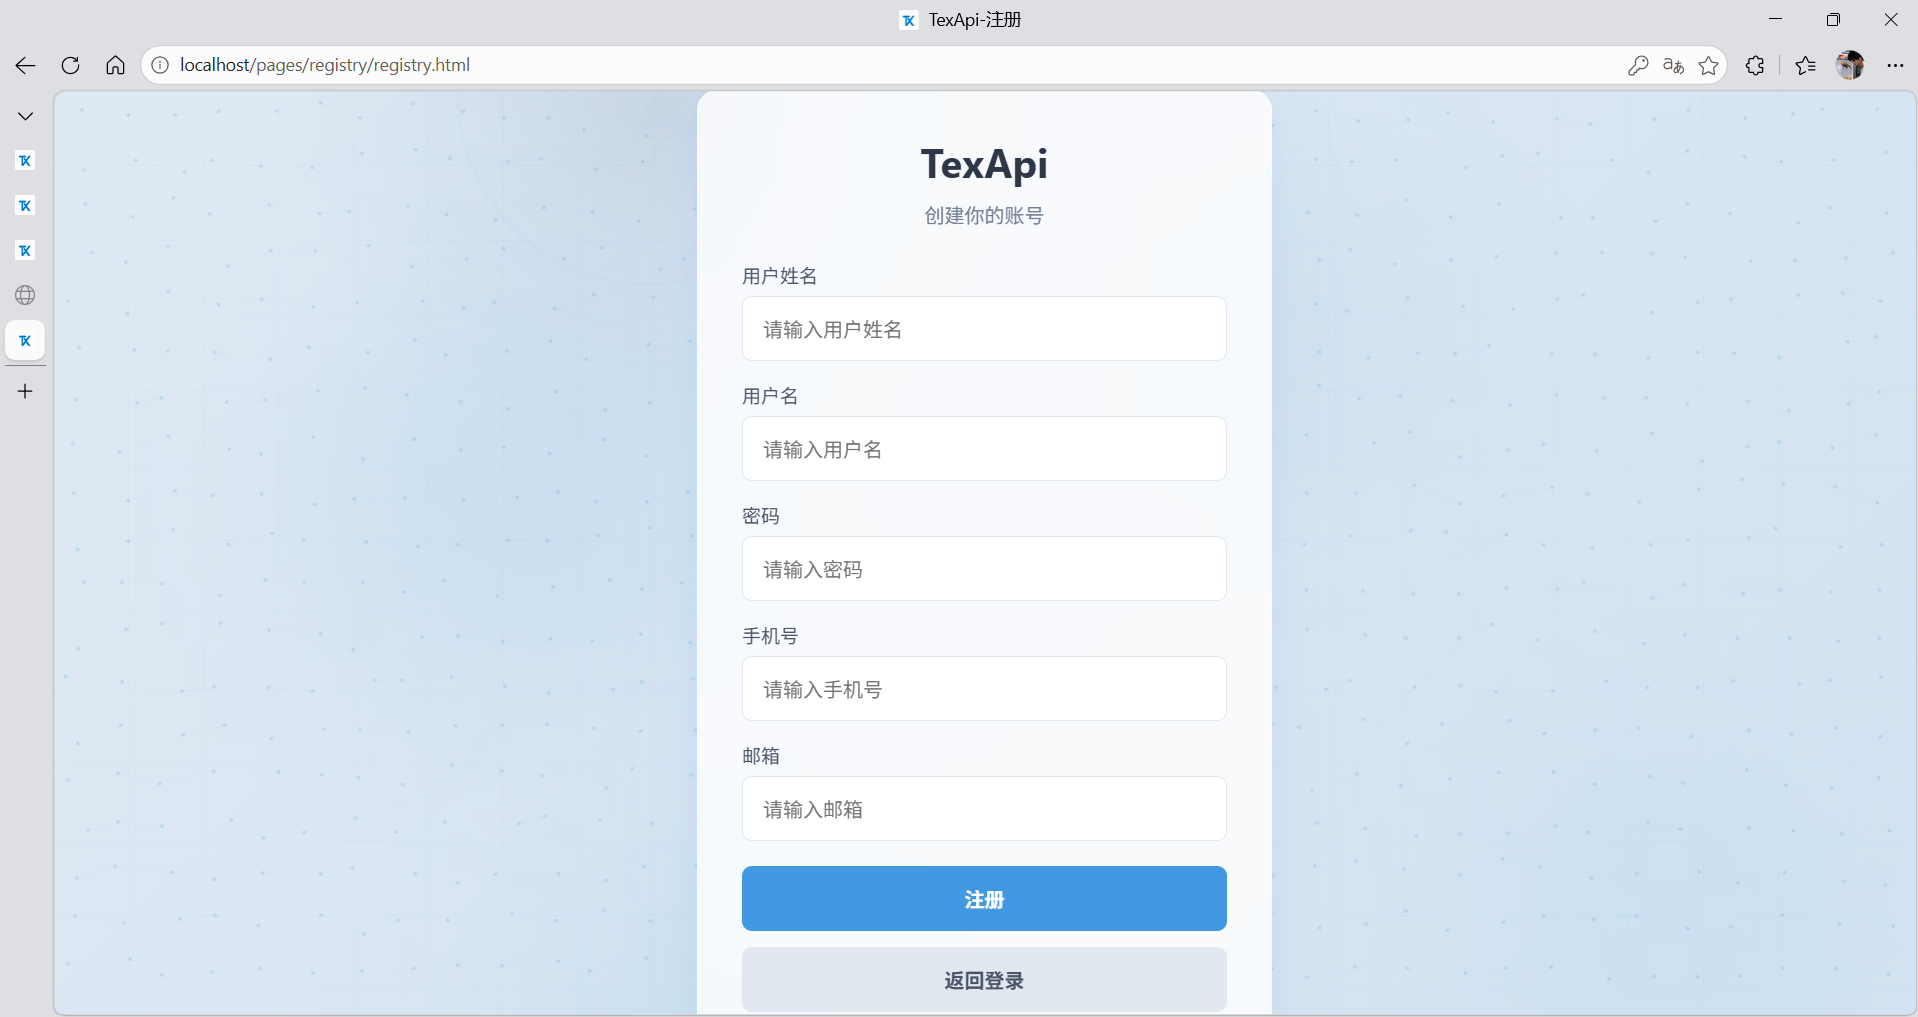
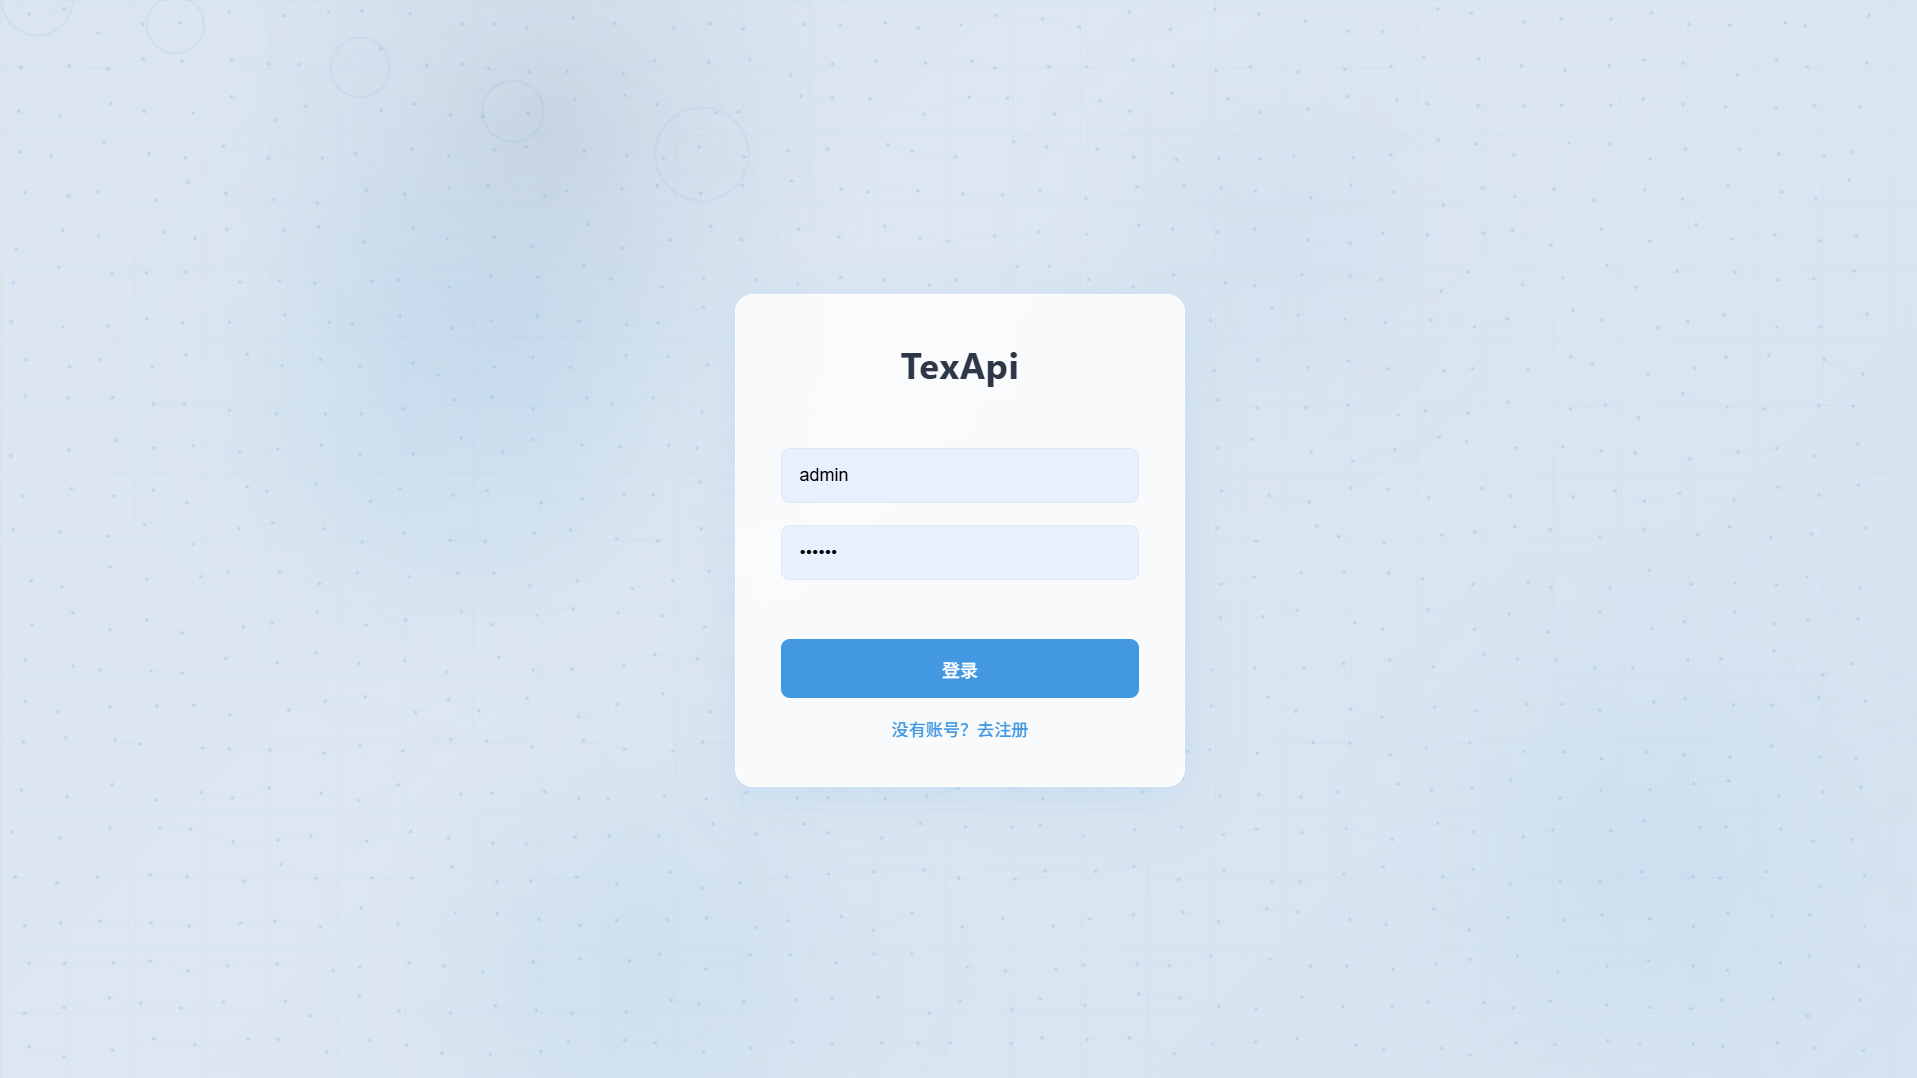
feat: README更新
- 用户UUID: user 表新增 uuid 列，邀请/移除/改角色改用 UUID 替代自增 ID，新增用户搜索接口
  - 团队权限: 唯一 owner 机制，所有权转让时原 owner 降为 admin；admin 可在 viewer/editor 范围内调整角色
  - 级联删除: 删除团队/项目时级联清理下游数据(参数→响应→接口→分类→项目)
  - 前端优化: 搜索式邀请弹窗、主表空状态编辑入口、顶栏团队下拉菜单、profile 显示 UUID、同窗口导航、通用 confirm
  弹窗组件、下拉样式统一

diff --git a/README.md b/README.md
@@ -1,24 +1,25 @@
-# TexApi — 轻量级接口文档在线管理调试平台
+# TexApi — 轻量级接口管理协作平台
 
-> 前后端分离的轻量级 API 管理工具，支持接口录入、在线调试、文档导出，让团队协作更高效。
+> 前后端分离的 API 管理工具，支持团队协作、接口录入、在线调试与文档导出。
 
 ---
 
 ## 📖 项目简介
 
-TexApi 是一套**前后端分离**的接口在线管理平台，专为后端开发人员设计。它解决了传统开发中接口文档分散、本地调试繁琐等问题，提供从接口录入 → 在线调试 → 导出离线文档的完整闭环。
+TexApi 是一套**前后端分离**的接口在线管理平台。围绕「团队 → 项目 → 分类 → 接口」四级组织模型，提供从接口设计、在线调试到文档导出的完整闭环。
 
 ### 核心功能
 
-| 模块      | 功能说明                                           |
-| ------- | ---------------------------------------------- |
-| 🔐 用户系统 | 注册 / 登录 / JWT 鉴权，支持多用户协作                       |
-| 📁 项目管理 | 创建项目、管理成员，按项目维度组织接口                            |
-| 📂 分类管理 | 接口按分类层级组织，支持增删改查                               |
-| 🔌 接口管理 | 录入接口（请求方式、URL、参数、响应体），支持 GET/POST/PUT/DELETE 等 |
-| 🧪 在线调试 | 浏览器端直接发送请求、查看响应                   |
-| 📄 文档导出 | 一键导出 HTML 离线文档，方便分享与归档                         |
-| 📊 响应模板 | 预设 JSON、XML 响应模板，快速复用                              |
+| 模块      | 功能                                                |
+| ------- | ------------------------------------------------- |
+| 🔐 用户系统 | 注册 / 登录 / JWT 鉴权 / UUID 用户标识                      |
+| 👥 团队协作 | 创建团队、邀请成员，四级角色权限（owner / admin / editor / viewer） |
+| 📁 项目管理 | 项目归属团队，支持创建、编辑、删除                                 |
+| 📂 分类树  | 分类按层级组织，草稿/发布双态管理                                 |
+| 🔌 接口管理 | 支持 GET/POST/PUT/DELETE，多格式请求体，请求参数与响应模板           |
+| 🧪 在线调试 | 浏览器端代理发送请求、查看响应                                   |
+| 📄 文档导出 | 一键导出 HTML 离线文档                                    |
+| ✏ 草稿编辑 | 主表只读预览 + 草稿编辑模式，发布后同步到主表                          |
 
 ---
 
@@ -26,28 +27,24 @@ TexApi 是一套**前后端分离**的接口在线管理平台，专为后端开
 
 ### 后端
 
-| 技术          | 版本      | 用途              |
-| ----------- | ------- | --------------- |
-| Spring Boot | 3.4.3   | 基础框架            |
-| Spring MVC  | —       | RESTful API     |
-| MyBatis     | 3.0.5   | ORM 持久层         |
-| MySQL       | 8.x     | 关系型数据库          |
-| Redis       | 8.x     | 缓存 & Token 存储   |
-| JWT         | —       | 用户认证与鉴权         |
-| AspectJ     | 1.9.25  | AOP 日志切面        |
-| FastJSON2   | 2.0.45  | JSON 序列化        |
-| OkHttp      | 4.12.0  | HTTP 代理请求（在线调试） |
-| Thymeleaf   | —       | 模板引擎（备用）        |
-| Lombok      | 1.18.42 | 简化代码            |
+| 技术          | 版本   | 用途       |
+| ----------- | ---- | -------- |
+| Spring Boot | 3.4  | 基础框架     |
+| MyBatis     | 3.0  | ORM 持久层  |
+| MySQL       | 8.x  | 关系型数据库   |
+| Redis       | 7.x  | 缓存       |
+| JWT         | —    | 用户认证     |
+| OkHttp      | 4.12 | 在线调试代理请求 |
+| FastJSON2   | 2.0  | JSON 序列化 |
+| Lombok      | 1.18 | 简化代码     |
 
 ### 前端
 
-| 技术                             | 说明            |
-| ------------------------------ | ------------- |
-| HTML5 / CSS3 / JavaScript (原生) | 无框架依赖，纯原生实现   |
-| Axios                          | HTTP 请求库（CDN） |
-| Anime.js                       | 动画库（CDN）      |
-| Nginx                          | 静态资源服务 & 反向代理 |
+| 技术                        | 说明            |
+| ------------------------- | ------------- |
+| HTML5 / CSS3 / JavaScript | 原生实现，无框架依赖    |
+| Axios                     | HTTP 请求库（CDN） |
+| Nginx                     | 静态资源服务 + 反向代理 |
 
 ---
 
@@ -56,218 +53,82 @@ TexApi 是一套**前后端分离**的接口在线管理平台，专为后端开
 ```
 TexApi/
 ├── src/main/java/com/tex/texapi/
-│   ├── common/                  # 公共模块
-│   │   ├── constant/            # 常量
-│   │   ├── context/             # 线程上下文（BaseContext）
-│   │   ├── enumeration/         # 枚举
-│   │   ├── exception/           # 全局异常处理
-│   │   ├── properties/          # 配置属性类
-│   │   ├── result/              # 统一响应体 Result<T>
-│   │   └── utils/               # 工具类
-│   ├── pojo/
-│   │   ├── entity/              # 数据库实体
-│   │   ├── dto/                 # 数据传输对象
-│   │   └── vo/                  # 视图对象
-│   └── server/
-│       ├── annotation/          # 自定义注解
-│       ├── aspect/              # AOP 切面
-│       ├── config/              # Spring 配置
-│       ├── controller/          # 控制器层
-│       ├── handler/             # 处理器
-│       ├── interceptor/         # 拦截器（JWT）
-│       ├── mapper/              # MyBatis Mapper
-│       └── service/             # 业务逻辑层
+│   ├── common/                  # 公共模块（常量、上下文、异常、工具类）
+│   ├── pojo/                    # 实体、DTO、VO
+│   └── server/                  # 控制器、服务、Mapper、拦截器、切面
 ├── src/main/resources/
-│   ├── mapper/                  # MyBatis XML 映射文件
+│   ├── mapper/                  # MyBatis XML 映射
+│   ├── db/init/                 # 建库建表脚本
 │   └── application*.yml         # 配置文件
-├── nginx/                       # Nginx 静态资源 & 反向代理
-│   └── html/tex/                # 前端页面
-│       ├── index.html           # 登录页
-│       ├── index.js             # 登录页逻辑
-│       ├── pages/               # 页面目录
-│       │   ├── home/            # 项目主页
-│       │   ├── detail/          # 接口详情页
-│       │   └── registry/        # 注册页
-│       ├── api/                 # 前端 API 封装
-│       ├── components/          # 可复用组件
-│       ├── config/              # 前端配置
-│       ├── module/              # 功能模块
-│       └── utils/               # 工具函数
+├── nginx/html/tex/              # 前端
+│   ├── index.html               # 登录页
+│   ├── pages/                   # 页面（home / master / detail / team / user）
+│   ├── components/              # 可复用组件（topBar / treeTable / modal / toast）
+│   ├── api/                     # 前端 API 封装
+│   └── css/                     # 样式
+├── docker/                      # Docker 部署配置
+└── .env.example                 # 环境变量模板
 ```
 
 ---
 
 ## 🚀 快速开始
 
-### 方式一：Docker 部署（推荐）
-
-> 无需安装 JDK、Maven、MySQL、Redis，只需 Docker。
+### Docker 部署（推荐）
 
 ```bash
-# 1. 克隆项目
 git clone https://gitee.com/kason-tang/tex-api.git
 cd TexApi
-
-# 2. 配置密码
-cp .env.example .env
-# 编辑 .env，设置 DB_PASSWORD 和 REDIS_PASSWORD
-
-# 3. 一键启动
-docker compose up -d
+cp .env.example .env          # 编辑设置密码
+docker compose up -d           # 一键启动 server + MySQL + Redis + Nginx
 ```
 
 访问 `http://localhost` 即可使用。
 
-<details>
-<summary>📋 Docker 架构说明</summary>
+### 本地开发
 
-| 服务 | 镜像 | 说明 |
-|------|------|------|
-| server | 本地构建（Dockerfile） | Spring Boot 后端，内置 Maven 编译 |
-| db | mysql:8.0 | MySQL 数据库，自动建库建表 |
-| redis | redis:7-alpine | Redis 缓存 |
-| proxy | nginx:1.26-alpine | 静态资源 + 反向代理 |
-
-首次启动会自动完成：拉取基础镜像 → Maven 编译打包 → 初始化数据库表结构，稍等几分钟即可。
-
-</details>
-
----
-
-### 方式二：本地开发部署
-
-#### 环境要求
-
-- **JDK** 17+
-- **Maven** 3.6+
-- **MySQL** 8.0+
-- **Redis** 6.0+
-- **Nginx**（可选，用于前端静态资源）
-
-#### 1. 克隆项目
+环境要求：**JDK 17+**、**MySQL 8.0+**、**Redis 6.0+**
 
 ```bash
-git clone https://gitee.com/kason-tang/tex-api.git
-cd TexApi
-```
-
-#### 2. 初始化数据库
-
-执行 `src/main/resources/db/init/create_table.sql` 脚本即可完成建库建表：
-
-```bash
+# 1. 初始化数据库
 mysql -u root -p < src/main/resources/db/init/create_table.sql
+
+# 2. 配置 application-dev.yml（数据库/Redis 连接信息）
+
+# 3. 启动后端
+./mvnw spring-boot:run
+
+# 4. 启动前端（Nginx）
+cd nginx && start nginx
 ```
-
-该脚本会自动创建 `tex_api` 数据库及所有表结构（`user`、`project`、`project_user`、`category`、`api`、`request_params`、`response`）。
-
-#### 3. 配置环境
-
-创建并编辑 `src/main/resources/application-dev.yml`，修改为你的本地环境：
-
-```yaml
-tex:
-  driver-class-name: com.mysql.cj.jdbc.Driver
-  username: root
-  password: your_password
-  datasource:
-    host: localhost
-    port: 3306
-    database: tex_api
-  redis:
-    host: localhost
-    port: 6379
-    password: your_redis_password
-    database: 9
-```
-
-#### 4. 启动后端
-
-```bash
-mvn clean package -DskipTests
-mvn spring-boot:run
-```
-
-后端服务默认运行在 `http://localhost:8080`。
-
-#### 5. 启动前端（Nginx）
-
-将 `nginx/html/tex/` 配置为 Nginx 静态资源目录，并启动 Nginx：
-
-```bash
-cd nginx/nginx-1.26.3
-start nginx
-```
-
-前端默认运行在 `http://localhost/tex/`。
 
 ---
 
 ## 🔌 API 概览
 
-| 模块   | 路径前缀                 | 说明           |
-| ---- | -------------------- | ------------ |
-| 用户   | `/tex/user`          | 注册、登录        |
-| 项目   | `/tex/project`       | 项目 CRUD、成员管理 |
-| 分类   | `/tex/category`      | 接口分类管理       |
-| 接口   | `/tex/api`           | 接口录入、在线调试    |
-| 请求参数 | `/tex/requestParams` | 接口请求参数管理     |
-| 响应模板 | `/tex/response`      | 响应体模板管理      |
+| 模块   | 路径前缀              | 说明                |
+| ---- | ----------------- | ----------------- |
+| 用户   | `/tex/user`       | 注册、登录、搜索          |
+| 团队   | `/tex/team`       | 团队 CRUD、成员管理、角色变更 |
+| 项目   | `/tex/project`    | 项目 CRUD           |
+| 分类   | `/tex/categories` | 分类树管理、草稿发布        |
+| 接口   | `/tex/api`        | 接口 CRUD、在线调试      |
+| 请求参数 | `/tex/request`    | 请求参数管理            |
+| 响应   | `/tex/response`   | 响应模板管理            |
 
 ---
 
 ## 🖥 页面截图
 
-### 🔐 登录 & 注册
-
-| 登录                            | 注册                            |
-|:-----------------------------:|:-----------------------------:|
-| ![登录界面](assets/img/image.png) | ![注册页面](assets/img/login.png) |
-
-### 📁 项目管理
-
-| 项目主页                                  | 新建项目                                  |
-|:-------------------------------------:|:-------------------------------------:|
-| ![项目主页](assets/img/project-home.png) | ![新建空项目](assets/img/new-project.png) |
-
-### 🎨 接口设计
-
-| 基本信息                                      | 参数设计                                      | 
-|:-----------------------------------------:|:-------------------------------------------:|
-| ![接口设计-基本信息](assets/img/api-design-basic.png) | ![接口设计-参数设计](assets/img/api-design-params.png)                        |
-
-### 🧪 在线调试
-
-| 调试面板                                  | 请求响应                                        |
-|:-------------------------------------:|:-------------------------------------------:|
-| ![调试面板](assets/img/debug-panel.png) | ![响应结果](assets/img/request-response.png) |
-
-### 👁 接口预览
-
-| 预览视图-1                            | 预览视图-2                            |
-|:---------------------------------:|:---------------------------------:|
-| ![预览-1](assets/img/preview-1.png) | ![预览-2](assets/img/preview-2.png) |
-
-### 📄 导出文档
-
-<p align="center">
-  <img src="assets/img/export-doc.png" alt="导出HTML文档" width="70%">
-</p>
-
-> 📎 导出效果示例：[浏览器打开文件查看离线 HTML 文档](assets/html/接口.html)
-
----
-
-## 🤝 参与贡献
-
-1. Fork 本仓库
-2. 新建分支：`git checkout -b feat/your-feature`
-3. 提交代码：`git commit -m 'feat: 添加某某功能'`
-4. 推送分支：`git push origin feat/your-feature`
-5. 创建 Pull Request
+|                                        |                                      |
+|:--------------------------------------:|:------------------------------------:|
+| **登录**                                 | **主页（项目列表）**                         |
+| ![登录](assets/img/login.png)            | ![主页](assets/img/home.png)           |
+| **主表预览（只读浏览）**                         | **草稿编辑 & 在线调试**                      |
+| ![主表预览](assets/img/master-preview.png) | ![草稿调试](assets/img/detail-debug.png) |
 
 ---
 
 ## 📄 License
 
-本项目基于 [MIT License](LICENSE) 开源，Copyright © 2026 Kason Tang。
+MIT License · Copyright © 2026 Kason Tang
